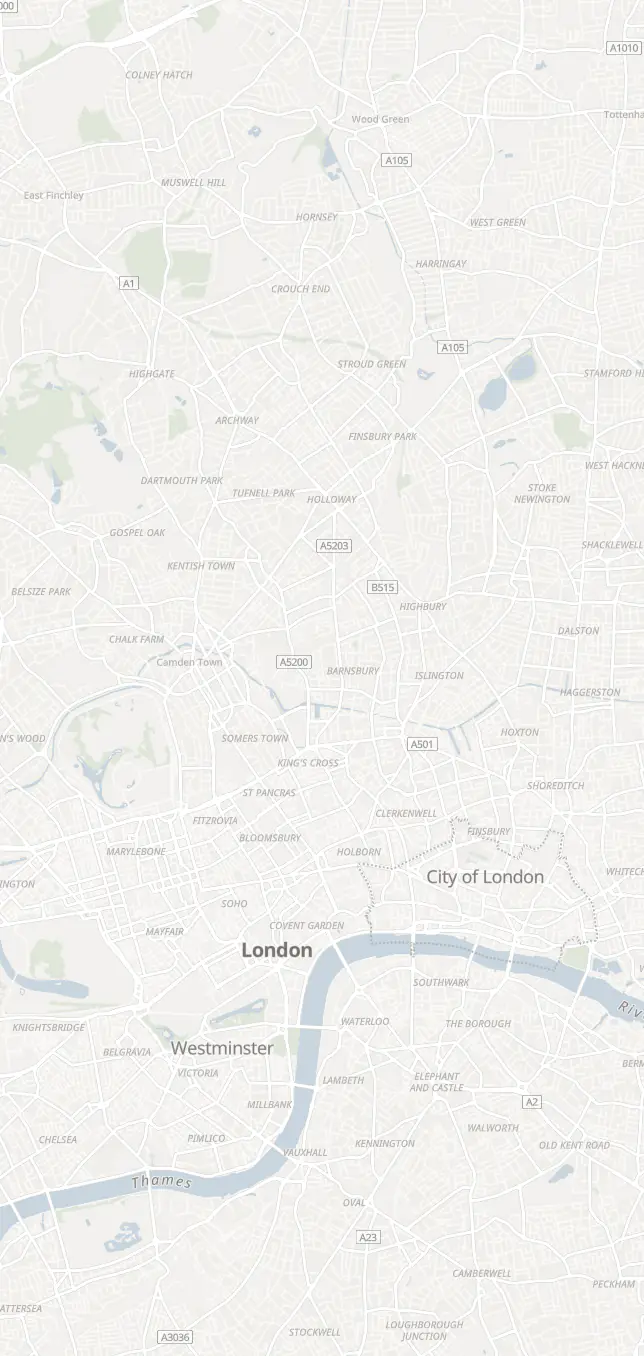
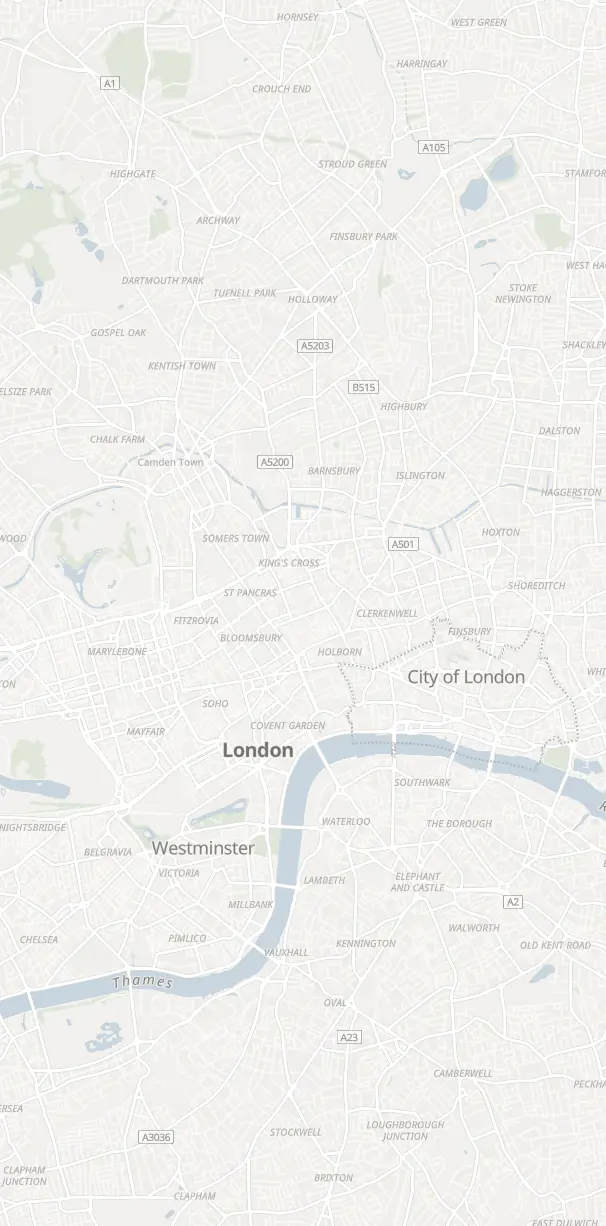
fix(map): the opening street picture covers tall phones again under the padded camera
The picture is captured for the ground a 440x960 phone sees with the phone
opening padding, so 412x915 and 430x932 open on streets again. The new rect
is 606x1226 (was 644x1356). The WebP ceiling comes down from 88 KB to 85 KB:
light 69,006 to 60,228 bytes, dark 87,072 to 85,364 bytes.

diff --git a/lib/mapOpeningSnapshot.ts b/lib/mapOpeningSnapshot.ts
@@ -22,23 +22,14 @@
 import { sameCameraPose, type OpeningCameraPose } from "@/lib/mapOpeningPreview";
 
 /**
- * The largest viewport the picture covers, in CSS pixels. Every portrait phone
- * fits inside it; a larger viewport (a tablet, a desktop, a phone on its side)
- * gets no picture, which is the map as it opened before this existed.
- * components/map/mapOpeningPreview.css repeats these two numbers in its media
- * query, and __tests__/mapOpeningSnapshot.test.ts holds the two to one answer.
+ * The largest viewport the picture covers, in CSS pixels, with the phone's
+ * padded opening camera (lib/phoneOpeningFrame.ts). Every portrait phone fits
+ * inside it; a larger viewport (a tablet, a desktop, a phone on its side) gets
+ * no picture, which is the map as it opened before this existed.
+ * public/theme-init.js and components/map/MapOpeningEarly.tsx repeat these two
+ * numbers, and __tests__/mapOpeningSnapshot.test.ts holds them to one answer.
  */
 export const MAP_OPENING_SNAPSHOT_MAX_VIEWPORT = { width: 440, height: 960 } as const;
-
-/**
- * The largest viewport the picture is SHOWN on, in CSS pixels. A phone opens
- * with its camera padded to the free map (lib/phoneOpeningFrame.ts), which
- * shows more of the near ground than the capture planned for, so a phone
- * taller than this would see the picture's bottom edge. public/theme-init.js
- * and components/map/MapOpeningEarly.tsx repeat these two numbers, and
- * __tests__/mapOpeningSnapshot.test.ts holds them to the picture.
- */
-export const MAP_OPENING_GROUND_MAX_VIEWPORT = { width: 440, height: 868 } as const;
 
 /** Picture beyond the furthest visible ground, so no edge can show. */
 export const MAP_OPENING_SNAPSHOT_MARGIN_PX = 24;
@@ -127,20 +118,22 @@ function visibleGroundCorners(
 
 /**
  * The ground rectangle a picture must cover so that no viewport up to
- * `viewport` sees its edge at `pitchDeg`, plus `margin` on every side. A
- * smaller viewport sees less on every side (the top width is a fixed multiple
- * of the viewport width, and the reach up and down grows with the height), so
- * covering the largest covers them all. It is drawn for a north-up screen: the
- * arrival turn keeps the picture only where `groundRectCovers` says the turned
- * screen still sees none of its edge, because covering every turned phone cost
- * the dark picture a fifth more bytes than its ceiling allows.
+ * `viewport` sees its edge at `pitchDeg`, with its camera padded `offsetY`,
+ * plus `margin` on every side. A smaller viewport sees less on every side (the
+ * top width is a fixed multiple of the viewport width, and the reach up and
+ * down grows with the height), so covering the largest covers them all. It is
+ * drawn for a north-up screen: the arrival turn keeps the picture only where
+ * `groundRectCovers` says the turned screen still sees none of its edge,
+ * because covering every turned phone cost the dark picture a fifth more bytes
+ * than its ceiling allows.
  */
 export function openingGroundRect(
   pitchDeg: number,
   viewport: { width: number; height: number },
   margin: number,
+  offsetY = 0,
 ): GroundRect {
-  const seen = visibleGround(pitchDeg, viewport.width, viewport.height);
+  const seen = visibleGround(pitchDeg, viewport.width, viewport.height, offsetY);
   const half = Math.ceil(Math.max(seen.halfWidthTop, seen.halfWidthBottom) + margin);
   const top = Math.floor(seen.top - margin);
   const bottom = Math.ceil(seen.bottom + margin);

diff --git a/public/theme-init.js b/public/theme-init.js
@@ -251,11 +251,11 @@
     if (localStorage.getItem("pubmax:first-pins-seen:v1") === "1") return;
     document.documentElement.dataset.mapPreview = "on";
     // The picture of the opening streets under those prices covers a phone
-    // up to 440 x 868 CSS px, with its camera padded to the free map
-    // (lib/mapOpeningSnapshot.ts, MAP_OPENING_GROUND_MAX_VIEWPORT). Decided
+    // up to 440 x 960 CSS px, with its camera padded to the free map
+    // (lib/mapOpeningSnapshot.ts, MAP_OPENING_SNAPSHOT_MAX_VIEWPORT). Decided
     // here rather than in a media query, because the screen is only cut at
     // named breakpoints.
-    if (window.innerWidth <= 440 && window.innerHeight <= 868) {
+    if (window.innerWidth <= 440 && window.innerHeight <= 960) {
       document.documentElement.dataset.mapGround = "on";
     }
   } catch {}

diff --git a/components/map/MapOpeningEarly.tsx b/components/map/MapOpeningEarly.tsx
@@ -9,7 +9,7 @@ type EarlyVenue = OpeningPricedVenue & NonNullable<ReturnType<typeof openingPric
 
 const css = `
 .mapEarly { display:none; position:fixed; inset:0; z-index:22; pointer-events:none; container-type:size; }
-@media (max-width:440px) and (max-height:868px) and (orientation:portrait) {
+@media (max-width:440px) and (max-height:960px) and (orientation:portrait) {
   @supports selector(:popover-open) {
     html[data-map-preview="on"][data-map-ground="on"] .mapEarly { display:block; }
     html[data-map-preview="on"][data-map-ground="on"]:has(.mapEarly) .mapOpeningPreview { visibility:hidden; }

diff --git a/__tests__/mapOpeningSnapshot.test.ts b/__tests__/mapOpeningSnapshot.test.ts
@@ -33,7 +33,7 @@ const meta = mapOpeningSnapshot as unknown as MapOpeningSnapshotMeta;
 const REGENERATE = "stale: run npm run build:map-opening-snapshot (see scripts/build_map_opening_snapshot.mjs)";
 
 /** The wire ceiling for one picture: it is fetched before the pins are. */
-const MAX_PICTURE_BYTES = 88 * 1024;
+const MAX_PICTURE_BYTES = 85 * 1024;
 
 describe("the committed opening basemap picture", () => {
   it("was captured for the camera a cold first visit opens on", () => {

diff --git a/docs/rules/components-map-canvas-and-pins.md b/docs/rules/components-map-canvas-and-pins.md
@@ -78,9 +78,9 @@ Moved from [`components/AGENTS.md`](../../components/AGENTS.md). Authoritative p
 
 <a id="the-document-draws-the-opening-prices-before-the-engine-and-only-the-ones-it-wil"></a>
 
-- **THE DOCUMENT DRAWS THE OPENING PRICES BEFORE THE ENGINE, AND ONLY THE ONES IT WILL DRAW.** Measured 16 Oct 2026 on a production build, cold Slow 4G: the first price on `/map` waited for MapLibre, its worker, the eager cell and the basemap, 9.1 to 10.7 s on a phone at 4x CPU. Without eligible early-map controls, the prerendered `/map` carries `components/map/MapOpeningPreview.tsx`: the priced cluster discs a cold first visit's first frame draws, computed at build from the shipped eager cell by `lib/mapOpeningPreviewDiscs.ts` through the canvas's own pipeline (`slimVenuesToPins`, the default kind filter, `pubsToGeoJSON`, and `clusterAtZoom` in `lib/mapOpeningPreview.ts`, a port of the worker's supercluster levels that gives the same cluster ids), and placed on a CSS plane at the opening camera's pitch so each disc lands where the engine paints its twin. FOUR rules. (1) IT CLAIMS NOTHING THE MAP WOULD NOT: the figure is `clusterPrice` written by `formatPinPriceLabel`, an unpriced disc is left out, and the canvas publishes its first frame's features (`publishMapOpeningFrame`), so the preview stands down at once if `frameMatchesPreview` finds a different camera, count, id, price or figure band (a live Pint Drop can move the cheapest pub to another band, which recolours its figure). (2) IT SHOWS ONLY ON THE VISIT IT WAS DRAWN FOR: the gate is a block in `public/theme-init.js`, the one pre-paint script, so the preview adds no script of its own. It sets `html[data-map-preview="on"]` only for a bare `/map` with no first-pins-seen flag. Legacy location data does not suppress the preview. The [saved map view rules](../MAP_URL_PARAMS.md#saved-map-views-and-location-privacy) own location-cache retirement. (3) IT LEAVES WHEN THE ENGINE ARRIVES OR GIVES UP: after `pubmax:pins-visible`, in the first frame where BOTH the map's loading frame (`MapLoadingFrame`) has lifted off the canvas AND the streets in view are drawn (`pubmax:basemap-drawn`, marked by the canvas on the first render where `streetsInViewDrawn` holds: a primary basemap tile painted, `areTilesLoaded()` true, and the tile failure tracker holding no unrecovered failure, because MapLibre counts an errored tile as settled; each new map clears the mark first, so a return to /map never inherits an earlier map's readiness), with a 3 s ceiling from the reveal on the STREETS only, the degraded path for a map whose tiles fail. The lift has no ceiling of its own, because standing down while the loading frame is still up shows that frame on bare paper, never better than the picture: under load the lift took 3.1 to 3.6 s after the reveal and the old shared ceiling showed exactly that (30 October 2026). The shell bounds the lift itself (`MAP_CANVAS_READINESS_CEILING_MS`), and a 10 s backstop from the reveal is the last word. The preview also stands down when it unmounts, counted so React's development double mount is not a departure, because the document's preview belongs to the cold first load and a return through the app's own navigation would otherwise find the root still "on" beside the first map's marks. The lift, because the reveal takes 1.2 to 1.9 s to unmount it on a throttled phone and standing down at the mark put that frame back on screen; the streets, because the lift alone could land while the street tiles were still arriving, and a 390x664 screenshot at 2.5 s showed the engine's pins on bare paper between the picture and the streets (captain asked for the fix on 30 October 2026), but only while the picture still shows its prices: once the discs have gone (`data-map-preview-discs`) it waits for the lift alone, because holding streets with no price on them kept the map's own prices off screen for 2.5 to 3.5 s on every cold run (390x844); the first frame the camera has MOVED while the preview is up (an opening location, a resumed view; a `resize()`, which fires `movestart` with the camera where it was, is not a move, and it stood the preview down within half a second of construction, seconds before the reveal, on every cold phone visit); the ARRIVAL TURN is not that move: it only turns the camera (`openingTurnBearing`, centre, zoom and pitch unchanged, at most `MAP_ARRIVAL_BEARING_DEG`), so the canvas sends `pubmax:opening-preview-turn` with the bearing and the picture and the discs turn with it on the same CSS plane (`--map-preview-bearing`, set on the preview layers and never on the root, where it restyled the whole document on every frame of the turn and put the engine's reveal about a second later), the discs counter-turned to stand upright as the canvas's labels do; the picture is drawn for a north-up screen, so a screen whose turned corners would see past it (`groundRectCovers` with the turn and the phone's padded camera: 393x852 and taller do, 390x844 and smaller do not) turns only as far as it still covers (`largestCoveredTurn`) and the map's own frame takes the last degree or two at the handoff, because standing down there left the loading frame on bare paper for 2 to 3 s until the reveal (440x956, three runs of three); covering those screens with a bigger picture was refused because it put the dark picture a fifth over its byte ceiling. Measured before this, on a production build at 390x664 with a 4x CPU throttle, the turn stood the preview down about 5.2 s in, 2.3 to 2.7 s before the reveal, in three runs of three, and that whole window showed the loading frame on bare paper; a frame drawn from the same camera with other prices (a fuller venue index landing after the arrival turn: 825 pubs in 81 clusters against the 6 discs, measured on 30 October 2026 in three dark runs of four) drops the DISCS only (`data-map-preview-discs="off"`, `frameCameraMatchesPreview`) while the picture of the streets stays until the handoff, because standing down whole there left the loading frame on bare paper for about 3 s until the reveal; with no picture shown it stands down whole as before; a canvas error or a venue-index failure each set it to `done`; the fade is 160 ms and a cut under reduced motion. (4) IT IS THE DESIGN THE CANVAS DRAWS: the neutral disc and plain ring, with "from" over the cheapest figure in that figure's own band ink, on the phone and the desktop alike (the desktop sets the figure in the data face), so a change to the cluster look changes `components/map/mapOpeningPreview.css` in the same commit. The "n pubs" caption is left off, because the map drops a caption a neighbour is in the way of and the document cannot know which. It is not a pin before the basemap: it is document markup, drawn on the skeleton's paper or the basemap picture (next rule) and gone before an engine pin paints. Pins: `__tests__/mapOpeningPreview.test.ts`, `__tests__/mapOpeningPreviewDom.test.tsx`, `e2e/map-opening-preview.spec.ts` (the probe holds each painted cluster within 1.5 px of its document twin).
+- **THE DOCUMENT DRAWS THE OPENING PRICES BEFORE THE ENGINE, AND ONLY THE ONES IT WILL DRAW.** Measured 16 Oct 2026 on a production build, cold Slow 4G: the first price on `/map` waited for MapLibre, its worker, the eager cell and the basemap, 9.1 to 10.7 s on a phone at 4x CPU. Without eligible early-map controls, the prerendered `/map` carries `components/map/MapOpeningPreview.tsx`: the priced cluster discs a cold first visit's first frame draws, computed at build from the shipped eager cell by `lib/mapOpeningPreviewDiscs.ts` through the canvas's own pipeline (`slimVenuesToPins`, the default kind filter, `pubsToGeoJSON`, and `clusterAtZoom` in `lib/mapOpeningPreview.ts`, a port of the worker's supercluster levels that gives the same cluster ids), and placed on a CSS plane at the opening camera's pitch so each disc lands where the engine paints its twin. FOUR rules. (1) IT CLAIMS NOTHING THE MAP WOULD NOT: the figure is `clusterPrice` written by `formatPinPriceLabel`, an unpriced disc is left out, and the canvas publishes its first frame's features (`publishMapOpeningFrame`), so the preview stands down at once if `frameMatchesPreview` finds a different camera, count, id, price or figure band (a live Pint Drop can move the cheapest pub to another band, which recolours its figure). (2) IT SHOWS ONLY ON THE VISIT IT WAS DRAWN FOR: the gate is a block in `public/theme-init.js`, the one pre-paint script, so the preview adds no script of its own. It sets `html[data-map-preview="on"]` only for a bare `/map` with no first-pins-seen flag. Legacy location data does not suppress the preview. The [saved map view rules](../MAP_URL_PARAMS.md#saved-map-views-and-location-privacy) own location-cache retirement. (3) IT LEAVES WHEN THE ENGINE ARRIVES OR GIVES UP: after `pubmax:pins-visible`, in the first frame where BOTH the map's loading frame (`MapLoadingFrame`) has lifted off the canvas AND the streets in view are drawn (`pubmax:basemap-drawn`, marked by the canvas on the first render where `streetsInViewDrawn` holds: a primary basemap tile painted, `areTilesLoaded()` true, and the tile failure tracker holding no unrecovered failure, because MapLibre counts an errored tile as settled; each new map clears the mark first, so a return to /map never inherits an earlier map's readiness), with a 3 s ceiling from the reveal on the STREETS only, the degraded path for a map whose tiles fail. The lift has no ceiling of its own, because standing down while the loading frame is still up shows that frame on bare paper, never better than the picture: under load the lift took 3.1 to 3.6 s after the reveal and the old shared ceiling showed exactly that (30 October 2026). The shell bounds the lift itself (`MAP_CANVAS_READINESS_CEILING_MS`), and a 10 s backstop from the reveal is the last word. The preview also stands down when it unmounts, counted so React's development double mount is not a departure, because the document's preview belongs to the cold first load and a return through the app's own navigation would otherwise find the root still "on" beside the first map's marks. The lift, because the reveal takes 1.2 to 1.9 s to unmount it on a throttled phone and standing down at the mark put that frame back on screen; the streets, because the lift alone could land while the street tiles were still arriving, and a 390x664 screenshot at 2.5 s showed the engine's pins on bare paper between the picture and the streets (captain asked for the fix on 30 October 2026), but only while the picture still shows its prices: once the discs have gone (`data-map-preview-discs`) it waits for the lift alone, because holding streets with no price on them kept the map's own prices off screen for 2.5 to 3.5 s on every cold run (390x844); the first frame the camera has MOVED while the preview is up (an opening location, a resumed view; a `resize()`, which fires `movestart` with the camera where it was, is not a move, and it stood the preview down within half a second of construction, seconds before the reveal, on every cold phone visit); the ARRIVAL TURN is not that move: it only turns the camera (`openingTurnBearing`, centre, zoom and pitch unchanged, at most `MAP_ARRIVAL_BEARING_DEG`), so the canvas sends `pubmax:opening-preview-turn` with the bearing and the picture and the discs turn with it on the same CSS plane (`--map-preview-bearing`, set on the preview layers and never on the root, where it restyled the whole document on every frame of the turn and put the engine's reveal about a second later), the discs counter-turned to stand upright as the canvas's labels do; the picture is drawn for a north-up screen, so a screen whose turned corners would see past it (`groundRectCovers` with the turn and the phone's padded camera: 430x932 and taller do, 412x915 and smaller do not) turns only as far as it still covers (`largestCoveredTurn`) and the map's own frame takes the last degree or two at the handoff, because standing down there left the loading frame on bare paper for 2 to 3 s until the reveal (440x956, three runs of three); covering those screens with a bigger picture was refused because it put the dark picture a fifth over its byte ceiling. Measured before this, on a production build at 390x664 with a 4x CPU throttle, the turn stood the preview down about 5.2 s in, 2.3 to 2.7 s before the reveal, in three runs of three, and that whole window showed the loading frame on bare paper; a frame drawn from the same camera with other prices (a fuller venue index landing after the arrival turn: 825 pubs in 81 clusters against the 6 discs, measured on 30 October 2026 in three dark runs of four) drops the DISCS only (`data-map-preview-discs="off"`, `frameCameraMatchesPreview`) while the picture of the streets stays until the handoff, because standing down whole there left the loading frame on bare paper for about 3 s until the reveal; with no picture shown it stands down whole as before; a canvas error or a venue-index failure each set it to `done`; the fade is 160 ms and a cut under reduced motion. (4) IT IS THE DESIGN THE CANVAS DRAWS: the neutral disc and plain ring, with "from" over the cheapest figure in that figure's own band ink, on the phone and the desktop alike (the desktop sets the figure in the data face), so a change to the cluster look changes `components/map/mapOpeningPreview.css` in the same commit. The "n pubs" caption is left off, because the map drops a caption a neighbour is in the way of and the document cannot know which. It is not a pin before the basemap: it is document markup, drawn on the skeleton's paper or the basemap picture (next rule) and gone before an engine pin paints. Pins: `__tests__/mapOpeningPreview.test.ts`, `__tests__/mapOpeningPreviewDom.test.tsx`, `e2e/map-opening-preview.spec.ts` (the probe holds each painted cluster within 1.5 px of its document twin).
 
-  By default the early map replaces the discs with individual pub price buttons through `components/map/MapOpeningEarly.tsx`. It requires an eligible cold `/map` visit, a valid opening-ground snapshot, and a portrait viewport no larger than 440 by 868 CSS pixels. The browser must support native popovers. Other visits retain the default preview. `PUBMAX_EARLY_MAP_ENABLED=0` in [`.env.example`](../../.env.example) is the kill switch. `/map` reads it when it prerenders and when it revalidates.
+  By default the early map replaces the discs with individual pub price buttons through `components/map/MapOpeningEarly.tsx`. It requires an eligible cold `/map` visit, a valid opening-ground snapshot, and a portrait viewport no larger than 440 by 960 CSS pixels. The browser must support native popovers. Other visits retain the default preview. `PUBMAX_EARLY_MAP_ENABLED=0` in [`.env.example`](../../.env.example) is the kill switch. `/map` reads it when it prerenders and when it revalidates.
 
   `loadOpeningPricedVenues` in `lib/mapOpeningPreview.server.ts` requires matching slim-pack and detail evidence for each price. Missing or mismatched evidence omits that pub. If no buttons qualify, the default discs remain. `lib/mapOpeningPricedVenues.ts` preserves input order when removing overlapping targets. The controls use the ground's container sizing, `150cqh` perspective, and coverage-limited arrival bearing.
 
@@ -88,7 +88,7 @@ Moved from [`components/AGENTS.md`](../../components/AGENTS.md). Authoritative p
 
 <a id="the-opening-prices-stand-on-a-picture-of-the-opening-streets-and-only-for-the-ca"></a>
 
-- **THE OPENING PRICES STAND ON A PICTURE OF THE OPENING STREETS, AND ONLY FOR THE CAMERA IT WAS TAKEN FROM.** Captain report, 19 Oct 2026: the phone map is very slow. On production in iPhone 14 emulation at 4x CPU the document's discs arrived at 4.2 s and stood on blank paper, and the basemap did not show until the engine's reveal. Under the discs, `components/map/MapOpeningPreview.tsx` now lays a PICTURE of the opening London basemap, captured by `npm run build:map-opening-snapshot` (`scripts/build_map_opening_snapshot.mjs`) and committed as `public/landing/map-opening/london-light.webp` and `public/landing/map-opening/london-dark.webp` with `lib/mapOpeningSnapshot.json` beside it. FIVE rules. (1) IT IS THE BASEMAP AND NOTHING ELSE: the OpenFreeMap style the map opens on (`MAP_STYLES`) with the app's palette applied by the canvas's own `applyBasemapTaste` and `readTokens`, served to a bare MapLibre page from the repo's TypeScript; no pin, cluster, landmark, rail line or chrome, because a picture of a pin is a price claim the picture cannot keep current. (2) IT IS FLAT, AND THE BROWSER TILTS IT: captured straight down (pitch 0, bearing 0) at the opening zoom over the ground `openingGroundRect` says a 440 x 960 phone can see at the opening pitch, plus 24 px, and laid on the discs' own CSS plane, so every street lands where the engine paints it at any phone size. A picture captured already tilted matches one viewport height only, because the engine's camera stands 1.5 viewport heights away. Its labels lie on the ground where the engine stands its labels up; the streets, the river and the canal coincide. (3) IT SITS UNDER THE STAGE: a fixed layer at z-index 0 before the shell, so the stage's chrome, the loading line and the discs stay on top. While it shows (`html[data-map-preview="on"]`, `:has(.mapOpeningGround)`, max 440 x 868, `MAP_OPENING_GROUND_MAX_VIEWPORT`: the phone camera's padding, below, shows more near ground than the 440 x 960 capture planned for), the skeleton and the loading frame are see-through and the canvas is held at `opacity: 0`, so a half-drawn engine frame never covers it; the loading line's pint glass holds still over it, as it does under reduced motion, because its pour repaints every frame and over see-through paper each one drew the picture again (the map's own pins about 0.7 s later, median of six cold runs at 390x844). That is why the preview's handoff after `pubmax:pins-visible` waits for the loading frame to lift (rule above). A larger viewport, a theme not in use and a visit the preview is not on fetch nothing, because a background image under `display: none` is never requested. (4) A STALE PICTURE IS NEVER SHOWN: `resolveOpeningGround` answers null unless the snapshot's camera is `MAP_OPENING_PREVIEW_CAMERA`, so another city, a resumed view, a deep link or a moved camera opens as before; and `__tests__/mapOpeningSnapshot.test.ts` fails when the camera, the styles, the covered viewport or the image hashes no longer match, until the script runs again against a production server of the tree. Re-run it also when the basemap palette changes (`lib/mapBasemapTaste.ts`, the map tokens), which no test can see. (5) IT PAYS ITS WIRE: `scripts/build_map_opening_snapshot.mjs` owns the capture pixel ratio and WebP byte ceiling. `lib/mapOpeningSnapshot.json` owns the captured dimensions, byte sizes and hashes. The earlier 2x capture was 152 KB and 201 KB at the lowest quality tried. One request, never an `<img>` or a preload, and never the LCP element (Chrome ignores a full-viewport image). Interleaved A/B on local production builds, iPhone 14, 4x CPU, Fast 4G, five pairs (light), medians: a full-looking map on screen 9,603 to 1,157 ms; the engine's map on screen 9,603 to 7,195 ms; `pubmax:pins-visible` 7,421 to 7,012 ms; LCP 3,464 to 3,400 ms (a text span in both); main-thread blocking before the map shows 5,214 to 3,314 ms. With no network throttle: 6,873 to 663, 6,873 to 5,021 and 5,448 to 4,442 ms. Dark, Fast 4G, three pairs: 8,114 to 1,630 ms for a full-looking map. Read honestly: `pubmax:map-style-load` was later in three of the five light Fast 4G pairs (median 4,407 to 5,111 ms) and earlier in the other two arms, so the picture's bytes may cost the engine some hundreds of milliseconds on a slow wire; the later marks did not move later. Part of the reveal's gain is the stand-down fix in the rule above (the old preview left at a resize and showed the animated loading scene again for three to four seconds), and the two are not separated here. Pins: `__tests__/mapOpeningSnapshot.test.ts`, `__tests__/mapOpeningPreviewDom.test.tsx`, `e2e/map-opening-preview.spec.ts` (the picture reaches past every screen edge while it shows, and the handoff never lands while the loading frame covers the canvas).
+- **THE OPENING PRICES STAND ON A PICTURE OF THE OPENING STREETS, AND ONLY FOR THE CAMERA IT WAS TAKEN FROM.** Captain report, 19 Oct 2026: the phone map is very slow. On production in iPhone 14 emulation at 4x CPU the document's discs arrived at 4.2 s and stood on blank paper, and the basemap did not show until the engine's reveal. Under the discs, `components/map/MapOpeningPreview.tsx` now lays a PICTURE of the opening London basemap, captured by `npm run build:map-opening-snapshot` (`scripts/build_map_opening_snapshot.mjs`) and committed as `public/landing/map-opening/london-light.webp` and `public/landing/map-opening/london-dark.webp` with `lib/mapOpeningSnapshot.json` beside it. FIVE rules. (1) IT IS THE BASEMAP AND NOTHING ELSE: the OpenFreeMap style the map opens on (`MAP_STYLES`) with the app's palette applied by the canvas's own `applyBasemapTaste` and `readTokens`, served to a bare MapLibre page from the repo's TypeScript; no pin, cluster, landmark, rail line or chrome, because a picture of a pin is a price claim the picture cannot keep current. (2) IT IS FLAT, AND THE BROWSER TILTS IT: captured straight down (pitch 0, bearing 0) at the opening zoom over the ground `openingGroundRect` says a 440 x 960 phone can see at the opening pitch with its padded camera (`PHONE_OPENING_OFFSET_Y`), plus 24 px, and laid on the discs' own CSS plane, so every street lands where the engine paints it at any phone size. A picture captured already tilted matches one viewport height only, because the engine's camera stands 1.5 viewport heights away. Its labels lie on the ground where the engine stands its labels up; the streets, the river and the canal coincide. (3) IT SITS UNDER THE STAGE: a fixed layer at z-index 0 before the shell, so the stage's chrome, the loading line and the discs stay on top. While it shows (`html[data-map-preview="on"]`, `:has(.mapOpeningGround)`, max 440 x 960, `MAP_OPENING_SNAPSHOT_MAX_VIEWPORT`), the skeleton and the loading frame are see-through and the canvas is held at `opacity: 0`, so a half-drawn engine frame never covers it; the loading line's pint glass holds still over it, as it does under reduced motion, because its pour repaints every frame and over see-through paper each one drew the picture again (the map's own pins about 0.7 s later, median of six cold runs at 390x844). That is why the preview's handoff after `pubmax:pins-visible` waits for the loading frame to lift (rule above). A larger viewport, a theme not in use and a visit the preview is not on fetch nothing, because a background image under `display: none` is never requested. (4) A STALE PICTURE IS NEVER SHOWN: `resolveOpeningGround` answers null unless the snapshot's camera is `MAP_OPENING_PREVIEW_CAMERA`, so another city, a resumed view, a deep link or a moved camera opens as before; and `__tests__/mapOpeningSnapshot.test.ts` fails when the camera, the styles, the covered viewport or the image hashes no longer match, until the script runs again against a production server of the tree. Re-run it also when the basemap palette changes (`lib/mapBasemapTaste.ts`, the map tokens), which no test can see. (5) IT PAYS ITS WIRE: `scripts/build_map_opening_snapshot.mjs` owns the capture pixel ratio and WebP byte ceiling. `lib/mapOpeningSnapshot.json` owns the captured dimensions, byte sizes and hashes. The earlier 2x capture was 152 KB and 201 KB at the lowest quality tried. One request, never an `<img>` or a preload, and never the LCP element (Chrome ignores a full-viewport image). Interleaved A/B on local production builds, iPhone 14, 4x CPU, Fast 4G, five pairs (light), medians: a full-looking map on screen 9,603 to 1,157 ms; the engine's map on screen 9,603 to 7,195 ms; `pubmax:pins-visible` 7,421 to 7,012 ms; LCP 3,464 to 3,400 ms (a text span in both); main-thread blocking before the map shows 5,214 to 3,314 ms. With no network throttle: 6,873 to 663, 6,873 to 5,021 and 5,448 to 4,442 ms. Dark, Fast 4G, three pairs: 8,114 to 1,630 ms for a full-looking map. Read honestly: `pubmax:map-style-load` was later in three of the five light Fast 4G pairs (median 4,407 to 5,111 ms) and earlier in the other two arms, so the picture's bytes may cost the engine some hundreds of milliseconds on a slow wire; the later marks did not move later. Part of the reveal's gain is the stand-down fix in the rule above (the old preview left at a resize and showed the animated loading scene again for three to four seconds), and the two are not separated here. Pins: `__tests__/mapOpeningSnapshot.test.ts`, `__tests__/mapOpeningPreviewDom.test.tsx`, `e2e/map-opening-preview.spec.ts` (the picture reaches past every screen edge while it shows, and the handoff never lands while the loading frame covers the canvas).
 
 - **A PHONE OPENS ON ITS FREE MAP.** The top chrome covers a phone map's top 112 px and the location card covers it from 296 px above the foot, so a camera aimed at the canvas middle opened every city with its pubs about three quarters of the way down the free map. A map built on its city's own camera on a phone (`PHONE_MAP_QUERY`) is padded to that band (`PHONE_OPENING_PADDING`, `lib/phoneOpeningFrame.ts`, `holdOpeningFrame` in `components/map/canvas/openingFrame.ts`). The numbers are fixed, because the location card loads on its own and can land after the map is built. Padding moves the picture and never the camera, so the opening preview still matches the first frame, and it MUST be drawn with the same offset: the preview's planes, the early map and the ground's coverage all take `PHONE_OPENING_OFFSET_Y`, or the preview lands 92 px off its twins. A reader's gesture keeps the padding, because releasing it redraws the ground under a finger. The opening keeps it: the arrival turn, and the opening-location answer, which re-aims at the city's own centre when no location is shared (a release there undid the whole fix on every cold visit). Any other camera move the app makes releases it first (`releaseOpeningFrame` in the camera lane), because every such move aims at the canvas middle. A resumed, located or named-area view is the reader's own and opens unpadded. Pins: `__tests__/cities.test.ts`, `__tests__/mapOpeningSnapshot.test.ts`.
 
